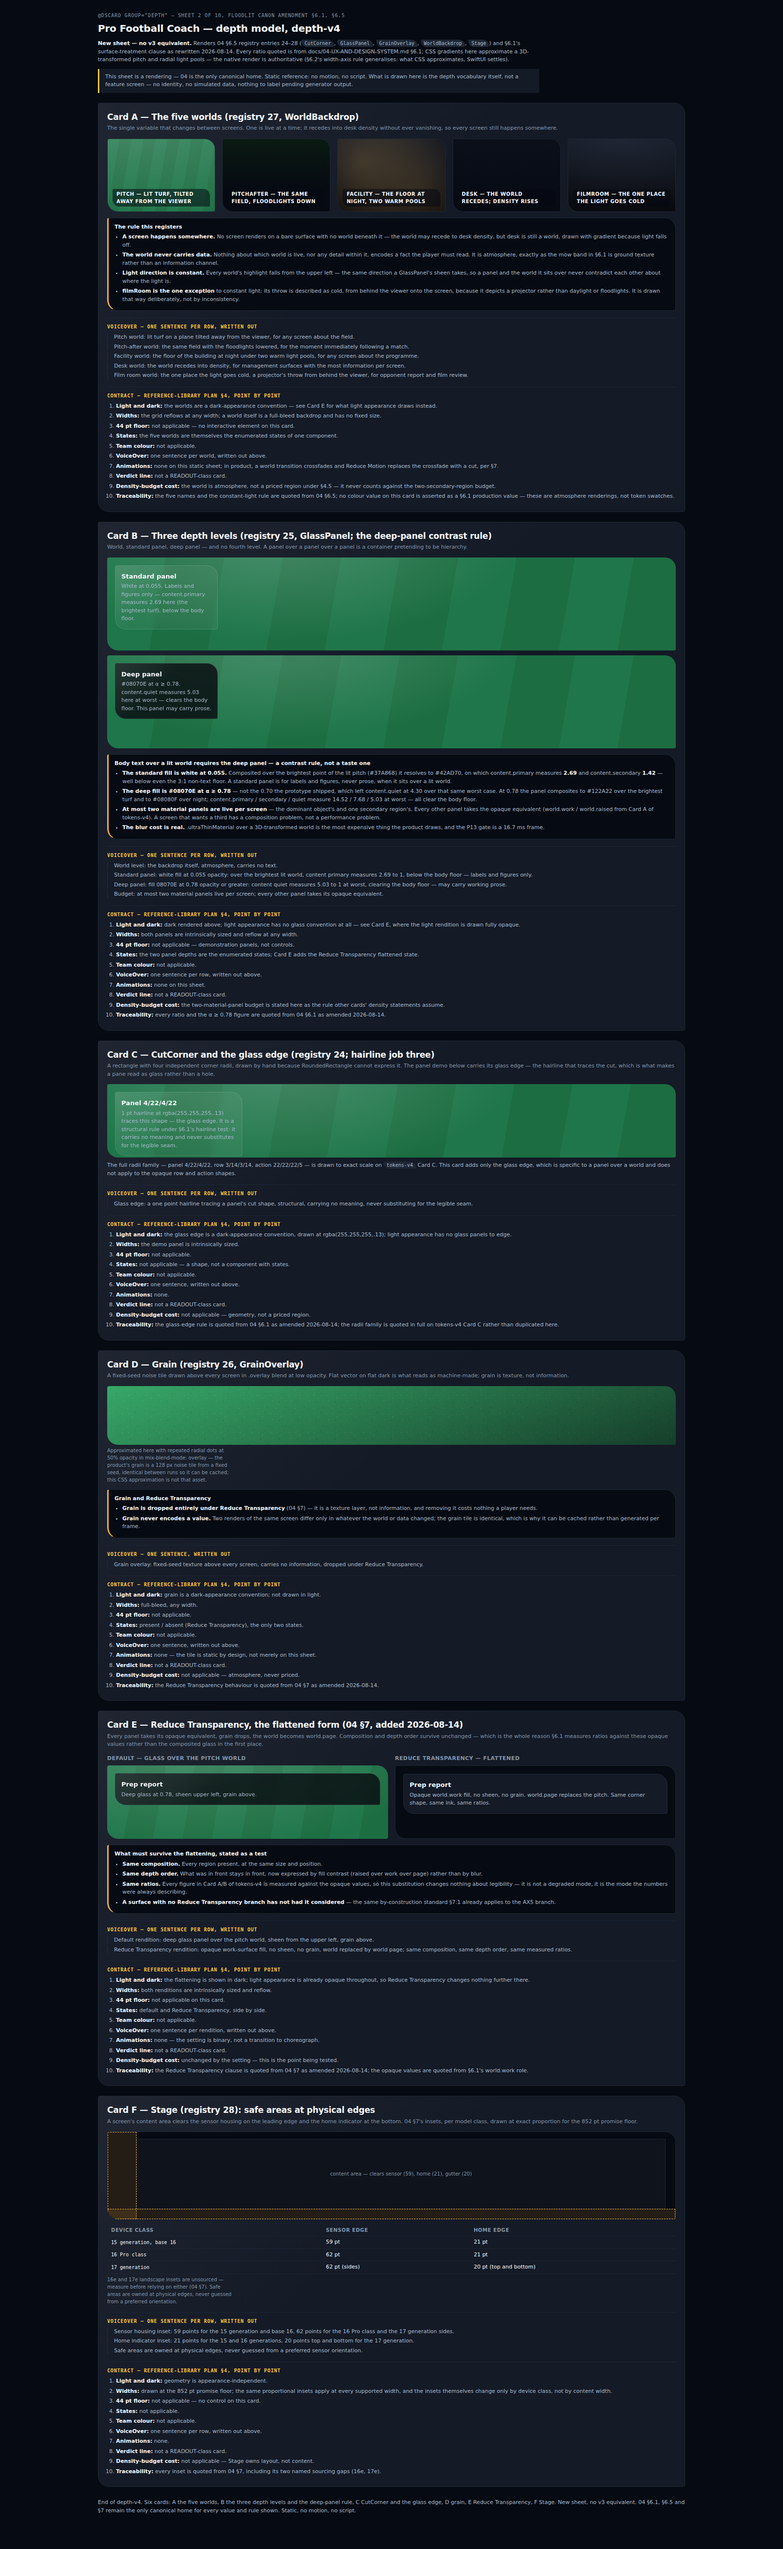
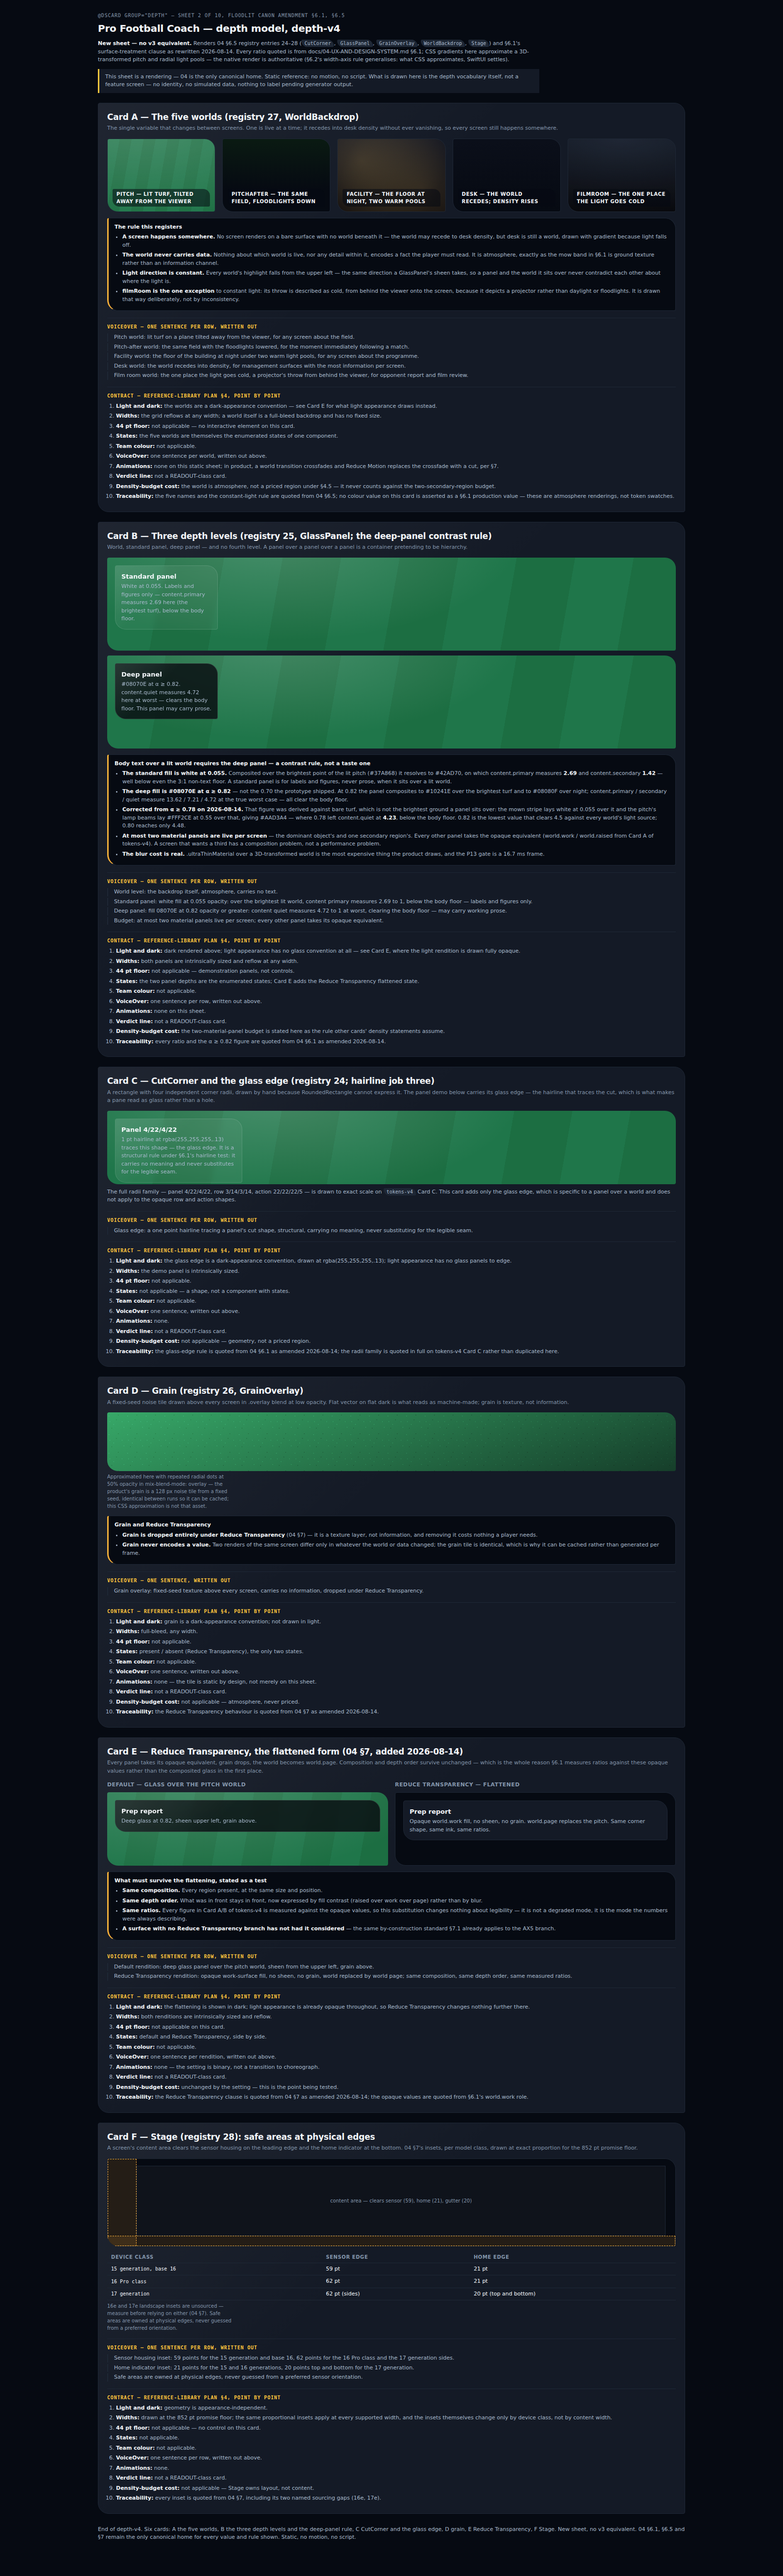
docs(canon): amend 04 for the Floodlit import (Phase 1A)
Four amendments, each gating code that would otherwise fail a test or
contradict a rule the day it lands. Grouped in one commit because
they all edit SS6 of the same file and two of them move the sheets
with them.

1. SS6.1 - the deep-panel floor rises from alpha 0.78 to 0.82.
   The Phase 0 derivation composited bare turf (#37A868) as "the
   brightest point of the lit pitch". It is not the brightest ground
   a panel sits over, and what it missed is light: the mown stripe
   lays white at 0.055 over the turf, and the pitch's lamp beams lay
   #FFF2CE at 0.55 over that. The worst ground is #AAD3A4, where 0.78
   leaves content.quiet at 4.23 - a body-floor failure the original
   derivation could not see because it never composited the light
   sources. Facility stadium bar next worst at 4.74, film-room dust
   motes at 5.31. 0.82 is the lowest value clearing 4.5 against all
   of them (4.72); 0.80 reaches only 4.48. The beam figure is
   deliberately pessimistic - a 2 pt beam under blur(7) never reaches
   0.55 at any pixel - so the rule holds without depending on
   composition keeping panels away from light. Palette.turfEdge
   #4FD08C is brighter still but is declared and never drawn;
   excluded on that basis, and the exclusion is stated.

2. SS6.6 - the chevron glob is replaced by enumerated members, and
   two live scan defects are recorded. `chevron.*` was invisible to
   the test that reads this table: the register reader captures
[…]

Changed region(s): [[0.125, 0.0, 0.875, 0.9674], [0.5938, 0.8737, 0.6562, 0.9049], [0.8125, 0.7177, 0.8438, 0.7489]]

diff --git a/depth-v4.dc.html b/depth-v4.dc.html
@@ -229,7 +229,7 @@ td{font-size:11px;padding:4px 8px;border-bottom:1px solid #1E2735;vertical-align
   <div class="lit-ground" style="margin-top:10px">
     <div class="panel-deep">
       <div class="t" style="color:#F6FAFF">Deep panel</div>
-      <div class="s" style="color:#A9BACE">#08070E at α ≥ 0.78. content.quiet measures 5.03 here at
+      <div class="s" style="color:#A9BACE">#08070E at α ≥ 0.82. content.quiet measures 4.72 here at
         worst — clears the body floor. This panel may carry prose.</div>
     </div>
   </div>
@@ -240,10 +240,15 @@ td{font-size:11px;padding:4px 8px;border-bottom:1px solid #1E2735;vertical-align
         pitch (#37A868) it resolves to #42AD70, on which content.primary measures <b>2.69</b> and
         content.secondary <b>1.42</b> — well below even the 3:1 non-text floor. A standard panel is
         for labels and figures, never prose, when it sits over a lit world.</li>
-      <li><b>The deep fill is #08070E at α ≥ 0.78</b> — not the 0.70 the prototype shipped, which
-        left content.quiet at 4.30 over that same worst case. At 0.78 the panel composites to
-        #122A22 over the brightest turf and to #08080F over night; content.primary / secondary /
-        quiet measure 14.52 / 7.68 / 5.03 at worst — all clear the body floor.</li>
+      <li><b>The deep fill is #08070E at α ≥ 0.82</b> — not the 0.70 the prototype shipped.
+        At 0.82 the panel composites to #10241E over the brightest turf and to #08080F over night;
+        content.primary / secondary / quiet measure 13.62 / 7.21 / 4.72 at the true worst case —
+        all clear the body floor.</li>
+      <li><b>Corrected from α ≥ 0.78 on 2026-08-14.</b> That figure was derived against bare turf,
+        which is not the brightest ground a panel sits over: the mown stripe lays white at 0.055
+        over it and the pitch's lamp beams lay #FFF2CE at 0.55 over that, giving #AAD3A4 — where
+        0.78 left content.quiet at <b>4.23</b>, below the body floor. 0.82 is the lowest value that
+        clears 4.5 against every world's light source; 0.80 reaches only 4.48.</li>
       <li><b>At most two material panels are live per screen</b> — the dominant object's and one
         secondary region's. Every other panel takes the opaque equivalent (world.work / world.raised
         from Card A of tokens-v4). A screen that wants a third has a composition problem, not a
@@ -258,7 +263,7 @@ td{font-size:11px;padding:4px 8px;border-bottom:1px solid #1E2735;vertical-align
     <ul>
       <li>World level: the backdrop itself, atmosphere, carries no text.</li>
       <li>Standard panel: white fill at 0.055 opacity: over the brightest lit world, content primary measures 2.69 to 1, below the body floor — labels and figures only.</li>
-      <li>Deep panel: fill 08070E at 0.78 opacity or greater: content quiet measures 5.03 to 1 at worst, clearing the body floor — may carry working prose.</li>
+      <li>Deep panel: fill 08070E at 0.82 opacity or greater: content quiet measures 4.72 to 1 at worst, clearing the body floor — may carry working prose.</li>
       <li>Budget: at most two material panels live per screen; every other panel takes its opaque equivalent.</li>
     </ul>
   </div>
@@ -278,7 +283,7 @@ td{font-size:11px;padding:4px 8px;border-bottom:1px solid #1E2735;vertical-align
       <li><b>Verdict line:</b> not a READOUT-class card.</li>
       <li><b>Density-budget cost:</b> the two-material-panel budget is stated here as the rule other
         cards' density statements assume.</li>
-      <li><b>Traceability:</b> every ratio and the α ≥ 0.78 figure are quoted from 04 §6.1 as amended
+      <li><b>Traceability:</b> every ratio and the α ≥ 0.82 figure are quoted from 04 §6.1 as amended
         2026-08-14.</li>
     </ol>
   </div>
@@ -381,7 +386,7 @@ td{font-size:11px;padding:4px 8px;border-bottom:1px solid #1E2735;vertical-align
       <div class="lit-ground" style="height:150px">
         <div class="panel-deep" style="width:100%">
           <div class="t" style="color:#F6FAFF">Prep report</div>
-          <div class="s" style="color:#A9BACE">Deep glass at 0.78, sheen upper left, grain above.</div>
+          <div class="s" style="color:#A9BACE">Deep glass at 0.82, sheen upper left, grain above.</div>
         </div>
       </div>
     </div>

diff --git a/tokens-v4.dc.html b/tokens-v4.dc.html
@@ -302,9 +302,11 @@ td{font-size:11px;padding:4px 8px;border-bottom:1px solid var(--hair);vertical-a
       <li><b>Body text over a lit world requires the deep panel — a contrast rule, not a taste
         one.</b> The standard panel fill (white at 0.055) composited over the brightest point of the
         lit pitch (#37A868) resolves to #42AD70, on which content.primary measures 2.69 and
-        content.secondary 1.42. The deep fill #08070E is specified at <b>α ≥ 0.78</b>, not the
-        prototype's 0.70. At 0.78 the panel composites to #122A22 over the brightest turf and to
-        #08080F over night; content.primary / secondary / quiet measure 14.52 / 7.68 / 5.03 at worst.
+        content.secondary 1.42. The deep fill #08070E is specified at <b>α ≥ 0.82</b>, not the
+        prototype's 0.70. At 0.82 the panel composites to #10241E over the brightest turf and to
+        #08080F over night; content.primary / secondary / quiet measure 13.62 / 7.21 / 4.72 at the
+        true worst case — the lamp-lit mown turf, not bare turf, which is what the superseded 0.78
+        figure was derived against.
         Rendered in full on <span class="mono">depth-v4</span>.</li>
       <li><b>content.quiet is #8496AC, not Floodlit's shipped #65788F.</b> The prototype value
         measures 4.37 / 3.85 / 3.32 and fails the body floor on every surface. The lift is a

diff --git a/Sources/ProFootballCoachUI/DesignTokens.swift b/Sources/ProFootballCoachUI/DesignTokens.swift
@@ -130,6 +130,8 @@ public enum CoachWorldTokens {
     public static let fieldLabel = ColorValue(hex: 0xFFE196)
 
     /// The opaque equivalent of the deep glass panel, and what every panel becomes under Reduce
-    /// Transparency. `04` §6.1 specifies α ≥ 0.78 for the fill this flattens.
-    public static let deepPanelOpacity: Double = 0.78
+    /// Transparency. `04` §6.1 specifies α ≥ 0.82 for the fill this flattens — raised from 0.78 on
+    /// 2026-08-14, because the original derivation composited bare turf and missed the mown stripe
+    /// and the lamp beams above it, where 0.78 left `content.quiet` at 4.23.
+    public static let deepPanelOpacity: Double = 0.82
 }

diff --git a/docs/04-UX-AND-DESIGN-SYSTEM.md b/docs/04-UX-AND-DESIGN-SYSTEM.md
@@ -352,11 +352,25 @@ Measured constraints, binding on every consumer:
 - **Body text over a lit world requires the deep panel — this is a contrast rule, not a taste
   one.** Floodlit's standard panel fill is white at 0.055; composited over the brightest point of
   the lit pitch (`#37A868`) it resolves to `#42AD70`, on which `content.primary` measures **2.69**
-  and `content.secondary` **1.42**. The deep fill `#08070E` is therefore specified at **α ≥ 0.78**,
-  not the 0.70 the prototype shipped, because 0.70 leaves `content.quiet` at 4.30 over that worst
-  case. At 0.78 the panel composites to `#122A22` over the brightest turf and to `#08080F` over
-  night, and `content.primary` / `content.secondary` / `content.quiet` measure 14.52 / 7.68 / 5.03
-  at worst. A standard panel may carry labels and figures over a lit world; it may not carry prose.
+  and `content.secondary` **1.42**. The deep fill `#08070E` is therefore specified at **α ≥ 0.82**,
+  not the 0.70 the prototype shipped. At 0.82 the panel composites to `#10241E` over the brightest
+  turf and to `#08080F` over night, and `content.primary` / `content.secondary` / `content.quiet`
+  measure 13.62 / 7.21 / **4.72** at the true worst case. A standard panel may carry labels and
+  figures over a lit world; it may not carry prose.
+
+  **Corrected from α ≥ 0.78 on 2026-08-14, and the correction is the interesting part.** The 0.78
+  figure was derived against bare `#37A868` — the brightest *turf* — and that is not the brightest
+  thing a panel actually sits over. Two lighter grounds were missed: the mown stripe lays white at
+  0.055 over the turf, and the pitch's **lamp beams** lay `#FFF2CE` at 0.55 over that. Composited,
+  the worst ground under a panel is `#AAD3A4`, not `#37A868`, and at 0.78 `content.quiet` measures
+  **4.23** there — a body-floor failure the original derivation could not see because it never
+  composited the light sources. The facility's stadium light bar is the next worst at 4.74, and the
+  film room's dust motes at 5.31. **0.82 is the lowest value that clears 4.5 against all of them**
+  (4.72); 0.80 reaches only 4.48 and still fails. The beam figure is deliberately pessimistic — a
+  2 pt beam under `blur(7)` never reaches its nominal 0.55 at any pixel — so the real margin is
+  wider than 4.72, and the rule holds without depending on composition keeping panels away from
+  light. `Palette.turfEdge` `#4FD08C` is brighter still but is **declared and never drawn**; it is
+  excluded on that basis, and the day it is drawn this derivation is void.
 - **`content.quiet` is `#8496AC`, not Floodlit's `#65788F`.** The prototype value measures
   4.37 / 3.85 / **3.32** and fails the body floor on every surface. The lift is a correction, and it
   is recorded here so it is not silently reverted to match the prototype.
@@ -520,8 +534,18 @@ Three things are settled here because the prototype and this section disagree:
 
 ### 6.3 Shape, spacing and touch
 
-- Base spacing steps: 4, 6, 8, 12, 16, 20. **Unchanged under Floodlit** — the prototype's 7, 9, 11,
-  14, 15 and 21 snap to this scale on import. A design system with two spacing scales has none.
+- Base spacing steps: 4, 6, 8, 12, 16, 20. **Unchanged under Floodlit** — the prototype's values
+  snap to this scale on import. A design system with two spacing scales has none.
+
+  The measured set is wider than the first pass recorded: the imported half uses
+  0, 1, 2, 3, 5, 7, 8, 9, 10, 11, 12, 14, 18 and 30. **The snap, stated once so it is not
+  re-decided per call site (2026-08-14):** 2 and 3 → **4**; 5 and 7 → **6**; 9 and 10 → **8**;
+  11 and 14 → **12**; 18 → **16**; 30 → **20**. `0` stays `.zero`, which is an absence of spacing
+  rather than a step, and `1` is `Shape.hairline`, which is a rule width and not spacing at all.
+  Two of these are judgement rather than arithmetic and are called out so a reviewer can disagree:
+  **14 → 12** rounds down where 16 is equally near, because 14 is used as a panel inset and the
+  panel scale below it is 12; **30 → 20** is the one genuine compression, and any site where 20
+  visibly fails is a layout question to raise, not a licence to reintroduce 30.
 - **Corners are cut asymmetrically (2026-08-14).** A panel reads as a deliberate shape rather than a
   default card because its four radii differ. `RoundedRectangle` cannot express this, so the shape
   is drawn by hand as `CutCorner(topLeading:topTrailing:bottomTrailing:bottomLeading:)`:
@@ -643,7 +667,7 @@ depends on; 29–32 are the proportion vocabulary; 33–35 are drawn identity ma
 | # | Registry name | Purpose |
 |---|---|---|
 | 24 | `CutCorner` | The asymmetric panel/row/action shape of §6.3, with its inset conformance |
-| 25 | `GlassPanel` | Blurred pane at depth: standard and deep, the deep fill at α ≥ 0.78 per §6.1 |
+| 25 | `GlassPanel` | Blurred pane at depth: standard and deep, the deep fill at α ≥ 0.82 per §6.1 |
 | 26 | `GrainOverlay` | Fixed-seed noise tile above every screen; dropped under Reduce Transparency |
 | 27 | `WorldBackdrop` | The register made visible — pitch, facility, film room, desk |
 | 28 | `Stage` | Safe-area-owning content inset; owns physical edges, never a fixed device rect |
@@ -664,6 +688,21 @@ replacement for one, and §6.1's heat banding gives the third.
 **Promotion status.** Entries 24–35 enter **provisional** under the P11 three-production-uses rule,
 exactly as 5–23 did. They are drawn from a prototype with five screens, so none has three production
 uses yet; the proof gate in §10 is where 24–32 earn theirs.
+
+**Entries 5–23 are built ahead of that rule — owner decision, 2026-08-14.** The rule below says a
+screen-local implementation owes its extraction *when promoted*, and promotion wants three
+production uses; with five screens built, most of 5–23 would wait on families that do not exist.
+The owner directed that all nineteen be built as named types in the design-system phase instead, so
+the 59 remaining families are built against a standing registry rather than against nine extractions
+and ten absences. **Every one of 5–23 therefore ships provisional**, on fewer than three uses, and
+the three-uses rule still governs promotion *out* of provisional — this decision changes when a type
+is written, not what earns it a permanent place. The nine with existing implementations
+(5–7, 10, 17, 19–22) are extractions and carry their real use counts; the ten without
+(8, 9, 11–16, 18, 23) are written against the §6.5 reference sheets that specify them —
+`table-v4` for `ColumnSet` and `ListControls`, `person-v4` for `DeltaMark` and `ConfidenceTag`,
+`readout-v4` for `Meter` and `OpposedBar`, `failure-v4` for the failure set — so none is invented
+against an imagined screen. Where a sheet and a later real use disagree, the use wins and the type
+is corrected; that is the cost this decision knowingly takes on.
 
 Adoption cost, carried knowingly: the registry is an audit surface (each entry needs its
 three-production-uses record or an explicit provisional mark); screen-local implementations of
@@ -693,7 +732,7 @@ grid in three different contexts. What is never permitted is an unbounded class.
 | **Broadcast marks** (§9) | 3 | possession wedge, key-moment mark, timeout mark (`TimeoutMarks`, registry 35) | Match Day chrome only; each carries a printed or spoken value beside it, never counts alone |
 | **Rating marks** (§5 identity) | 1 | star blade (`StarRating`, registry 33) | Recruiting and draft evaluation only; always beside its printed figure |
 | **Empty-state marks** (`EmptyState`, registry 23) | 6 | `person.3`, `person.crop.rectangle`, `list.number`, `checkmark.circle` | Empty and unavailable states only. Enumerated but **not a learned class**: every empty state carries a title and a description sentence, so the mark orients and the words inform. Bounded anyway, because an unbounded class is what this table exists to prevent |
-| **Control furniture** | not a learned class | `chevron.*`, `magnifyingglass`, `line.3.horizontal.decrease`, `rectangle.3.group`, `pause.fill`, `forward.end.fill`, `speedometer`, `checkmark`, `person.2`, `plus`, `xmark` | Navigation and controls; every one carries a visible or accessible label, so none is a symbol the player must learn. §6.3 anticipates the icon-first utilities (inspect film, delegate, pause, speed, tactical view) and requires their accessible names to stay explicit |
+| **Control furniture** | not a learned class | `chevron.right`, `chevron.up`, `chevron.down`, `magnifyingglass`, `line.3.horizontal.decrease`, `rectangle.3.group`, `pause.fill`, `forward.end.fill`, `speedometer`, `checkmark`, `circle`, `sparkles.tv`, `person.2`, `plus`, `xmark` | Navigation and controls; every one carries a visible or accessible label, so none is a symbol the player must learn. §6.3 anticipates the icon-first utilities (inspect film, delegate, pause, speed, tactical view) and requires their accessible names to stay explicit |
 
 **Total learned symbols: 25** (12 status + 2 change + 2 obligation + 5 session + 3 broadcast +
 1 rating). **Moved from 23 on 2026-08-14 by the owner decision adopting Floodlit**, which brings two
@@ -711,6 +750,34 @@ when a class grows.** Filled and unfilled variants of one symbol are one member:
 is `hand.raised`, and `circle` is the unchecked state of `checkmark.circle.fill` rather than a
 thirteenth status symbol or a new class. Where two components want the same meaning they take the same member — a
 delegated receipt is `person.badge.clock` on every surface, not `person.fill.checkmark` on one.
+
+**The chevron family is enumerated per direction, not globbed (corrected 2026-08-14).** The control
+furniture row read `chevron.*` until this date, and the glob was **invisible to the test that reads
+this table**: the register reader captures members with `` `([a-z][a-zA-Z0-9.]*)` `` and the `*`
+blocks the closing backtick, so `chevron.*` contributed no members at all and *any* chevron the UI
+drew would have been reported unregistered. It went unnoticed because the second defect below hid
+the only chevrons in the tree. A direction is now an explicit member: `chevron.right` (disclosure
+and inspect route), `chevron.up`/`chevron.down` (sort direction on `DenseTable`'s sortable header).
+`chevron.left` is deliberately absent — no surface carries a back affordance, because §3 keeps
+navigation in the composition; it joins the row when one is designed, not before.
+
+**Selection reuses the obligation glyph rather than minting a third circle.** A choice list marks
+its selected row with `checkmark.circle.fill` — already a member, as the Obligation class's
+*complete* — against `circle` unselected, which the growth rule above already treats as that
+symbol's unchecked state and which is now listed so the test can see it. `record.circle.fill` is
+**not** a member and must not be drawn.
+
+**The register's enforcing scan has a coverage boundary, and it is being closed in the same phase
+(recorded 2026-08-14).** G-08's test matches `system(?:Name|Image):\s*"…"` — a literal *immediately*
+after the label — so a symbol named by a ternary, a variable or a helper's return value is invisible
+to it. Five symbols were being drawn in production and seen by nothing: `chevron.up`/`chevron.down`
+(`RosterView`, ternary), `record.circle.fill`/`circle` (`CoachingHQView`, ternary) and `sparkles.tv`
+(`MatchDayView`, via a `(title:symbol:)` helper). This is the coverage-boundary defect `CLAUDE.md`
+names — *"the test's coverage boundary became the quality boundary"* — wearing a contract's clothes,
+and the register's claim above to hold **every** symbol the product draws was false while it stood.
+The scan is widened to tokenise string literals properly (`LegalTests` already carries the state
+machine that does this) and to test every symbol-shaped literal in a drawing file against this
+table. This paragraph stays until that limb is green on a machine with a compiler.
 
 Growth rule: a new symbol displaces an existing member of its class or the class cap moves, and a
 class cap moves only by owner decision recorded here. §4.5 names vocabulary growth as the leak
